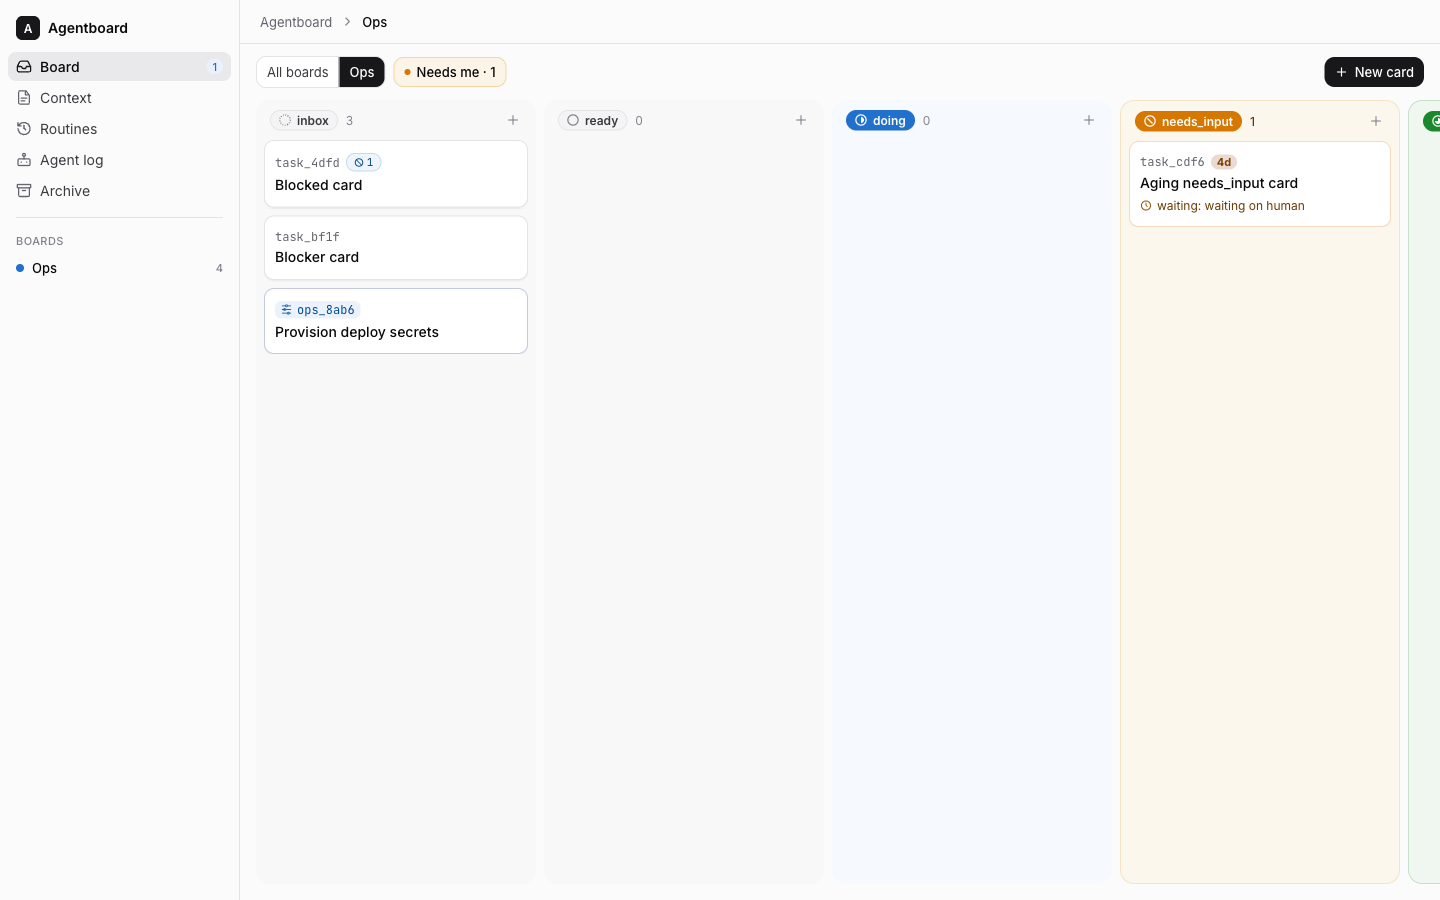
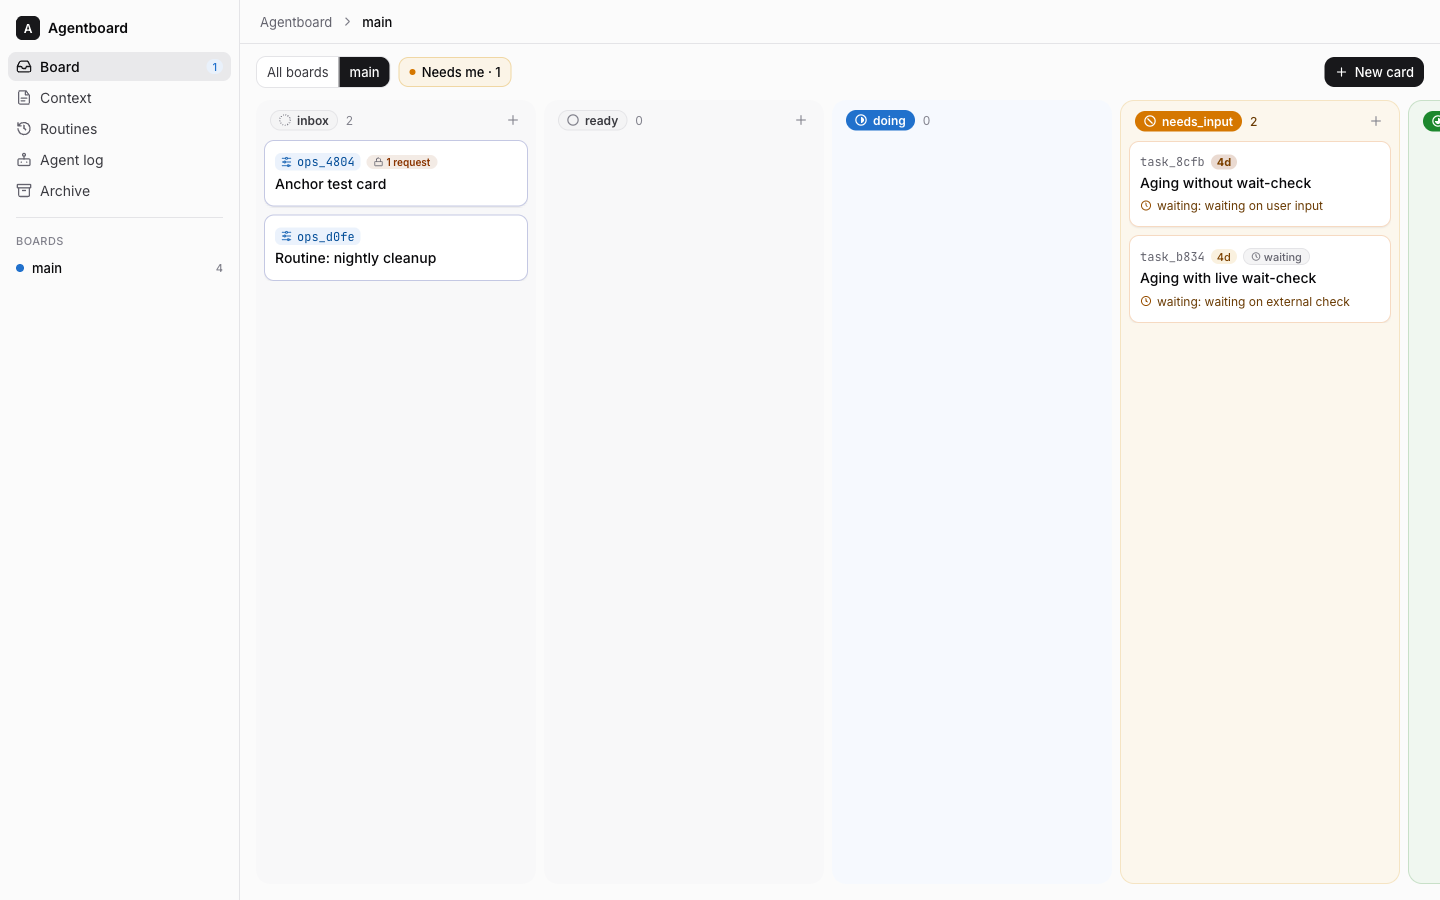
fix(web): badge[hidden] override, aging skips wait-checks, anchor jump switches to timeline
Whole-branch review's three Important defects: .tab-badge's display:flex beat
the UA [hidden] rule (false-alarm dot with zero paused routines); ageChip's
"old" heavier styling ignored isWaitingExternal, contradicting the spec's
explicit "no heavier display for external waits"; jumpToRequest scrolled to
a secret-box that was display:none while the Agent-activity tab was active,
so the click silently did nothing. Re-shot mobile-tabs-390.png and
aging-1440.png; six verify scripts + build all pass.

diff --git a/web/style.css b/web/style.css
@@ -745,6 +745,7 @@ input, textarea, select { font: inherit; color: var(--ink); }
   .tab-item:hover { text-decoration: none; }
   .tab-item { position: relative; }
   .tab-badge { position: absolute; top: 4px; right: 18%; min-width: 15px; height: 15px; border-radius: 999px; background: oklch(0.5 0.16 25); color: #fff; font-size: 9.5px; font-weight: 700; display: flex; align-items: center; justify-content: center; padding: 0 4px; }
+  .tab-badge[hidden] { display: none; }
   .more-sheet { padding-bottom: 18px; }
   .more-row { display: flex; align-items: center; gap: 12px; width: 100%; padding: 13px 16px; background: none; border: none; font-size: 14.5px; color: inherit; text-decoration: none; border-bottom: 1px solid var(--line); }
   .more-row .t { font-weight: 500; }

diff --git a/web/js/components.js b/web/js/components.js
@@ -15,7 +15,7 @@ export const agentChip = () => `<span class="agent-chip">${icons.bot()}@agent</s
 
 export function ageChip(card) {
   if (card.status !== 'needs_input' && card.status !== 'review') return '';
-  const old = Date.now() - new Date(card.status_since).getTime() > 3 * 24 * 60 * 60 * 1000;
+  const old = !isWaitingExternal(card) && Date.now() - new Date(card.status_since).getTime() > 3 * 24 * 60 * 60 * 1000;
   const cls = `age-chip ${card.status === 'needs_input' ? 'amber' : 'green'}${old ? ' old' : ''}`;
   return `<span class="${cls}" title="in ${esc(card.status)} since ${esc(absTime(card.status_since))}">${ageShort(card.status_since)}</span>`;
 }

diff --git a/web/js/views/card.js b/web/js/views/card.js
@@ -505,6 +505,8 @@ export async function renderCard(root, { boards, cardId }) {
     };
   });
   const jumpToRequest = () => {
+    const tlTab = root.querySelector('.tl-tab[data-tab="timeline"]');
+    if (tlTab && !tlTab.classList.contains('active')) tlTab.click();
     const allBtn = root.querySelector('.tl-filter[data-filter="all"]');
     if (allBtn && !allBtn.classList.contains('active')) allBtn.click();
     const box = root.querySelector('.secret-box');
